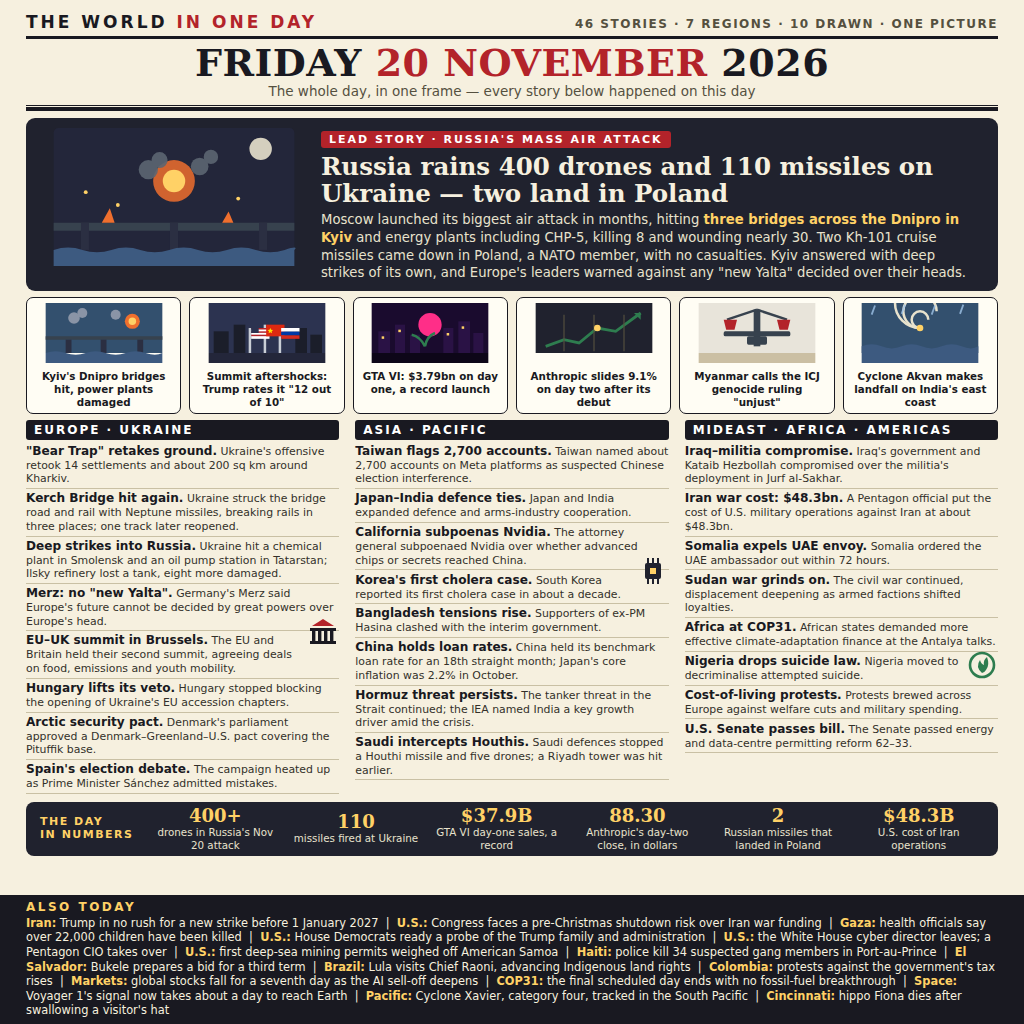
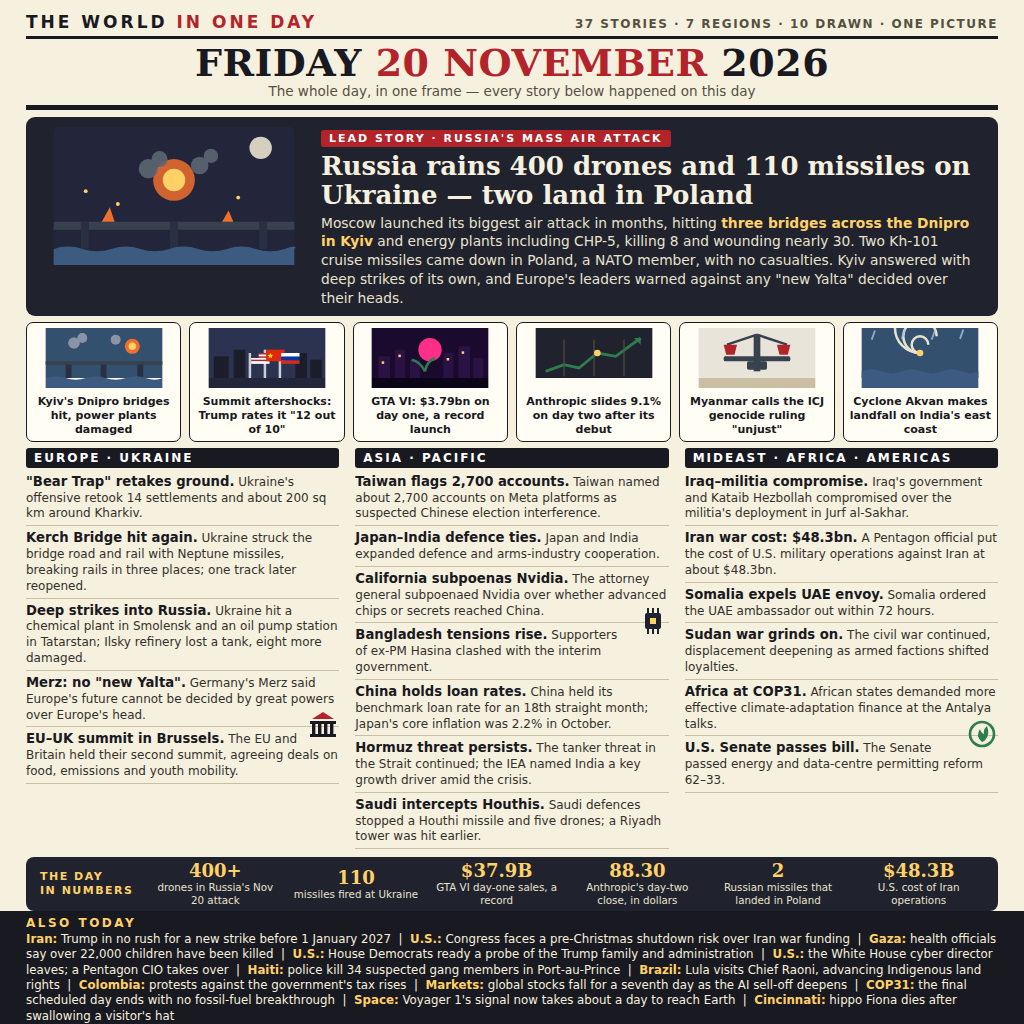
v2: 37 stories — cleaner layout, bigger type

diff --git a/README.md b/README.md
@@ -1,8 +1,8 @@
 # The World in One Day — 20 November 2026
 
-One image that sums up a whole day of world news, drawn as a newspaper front page: 46 stories, 7 regions, 10 drawn pictures.
+One image that sums up a whole day of world news, drawn as a newspaper front page: 37 stories, 7 regions, 10 drawn pictures.
 
-The lead story is Russia's mass air attack on Ukraine on 20 November — over 400 drones and 110 missiles, three bridges across the Dnipro in Kyiv hit, and two cruise missiles landing in Poland. Around it: the Shenzhen summit aftershocks, GTA VI's record $3.79bn launch day, Anthropic's slide on day two, the ICJ genocide ruling against Myanmar, and Cyclone Akvan — plus 24 briefs and a ticker of 15 more stories.
+The lead story is Russia's mass air attack on Ukraine on 20 November — over 400 drones and 110 missiles, three bridges across the Dnipro in Kyiv hit, and two cruise missiles landing in Poland. Around it: the Shenzhen summit aftershocks, GTA VI's record $3.79bn launch day, Anthropic's slide on day two, the ICJ genocide ruling against Myanmar, and Cyclone Akvan — plus 18 briefs and a ticker of 12 more stories.
 
 Built by an AI agent for make.fun's "Sum up 20 November's world news in one image" bounty, $250 USDC.
 
